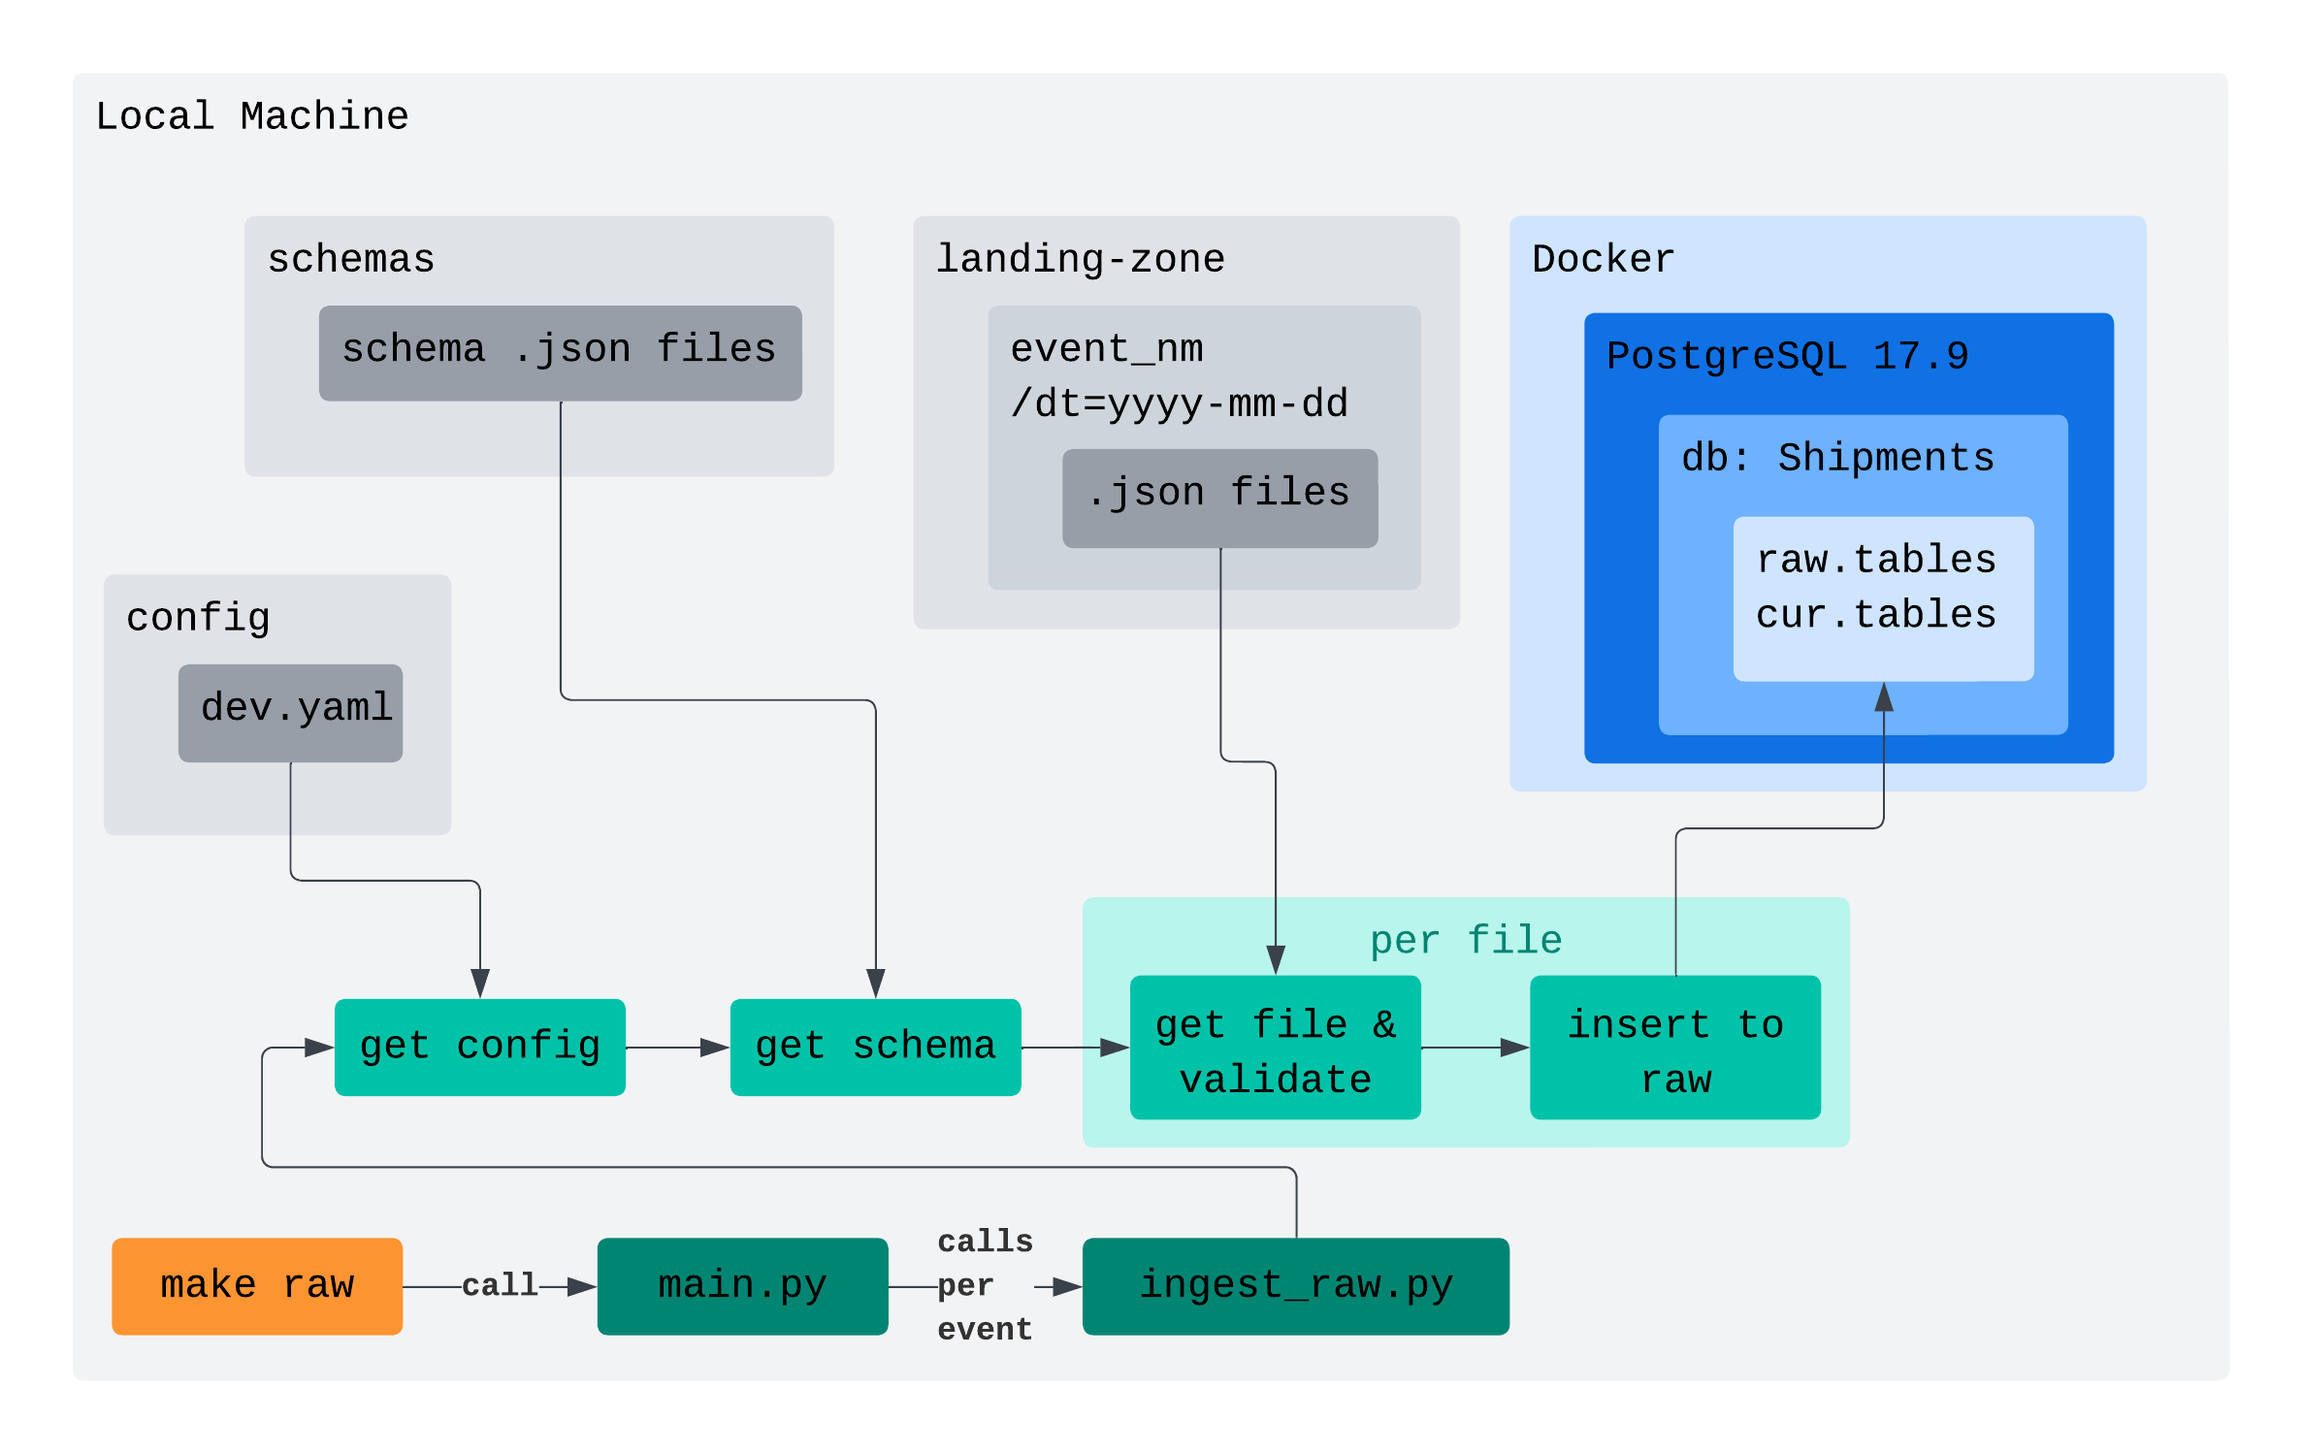
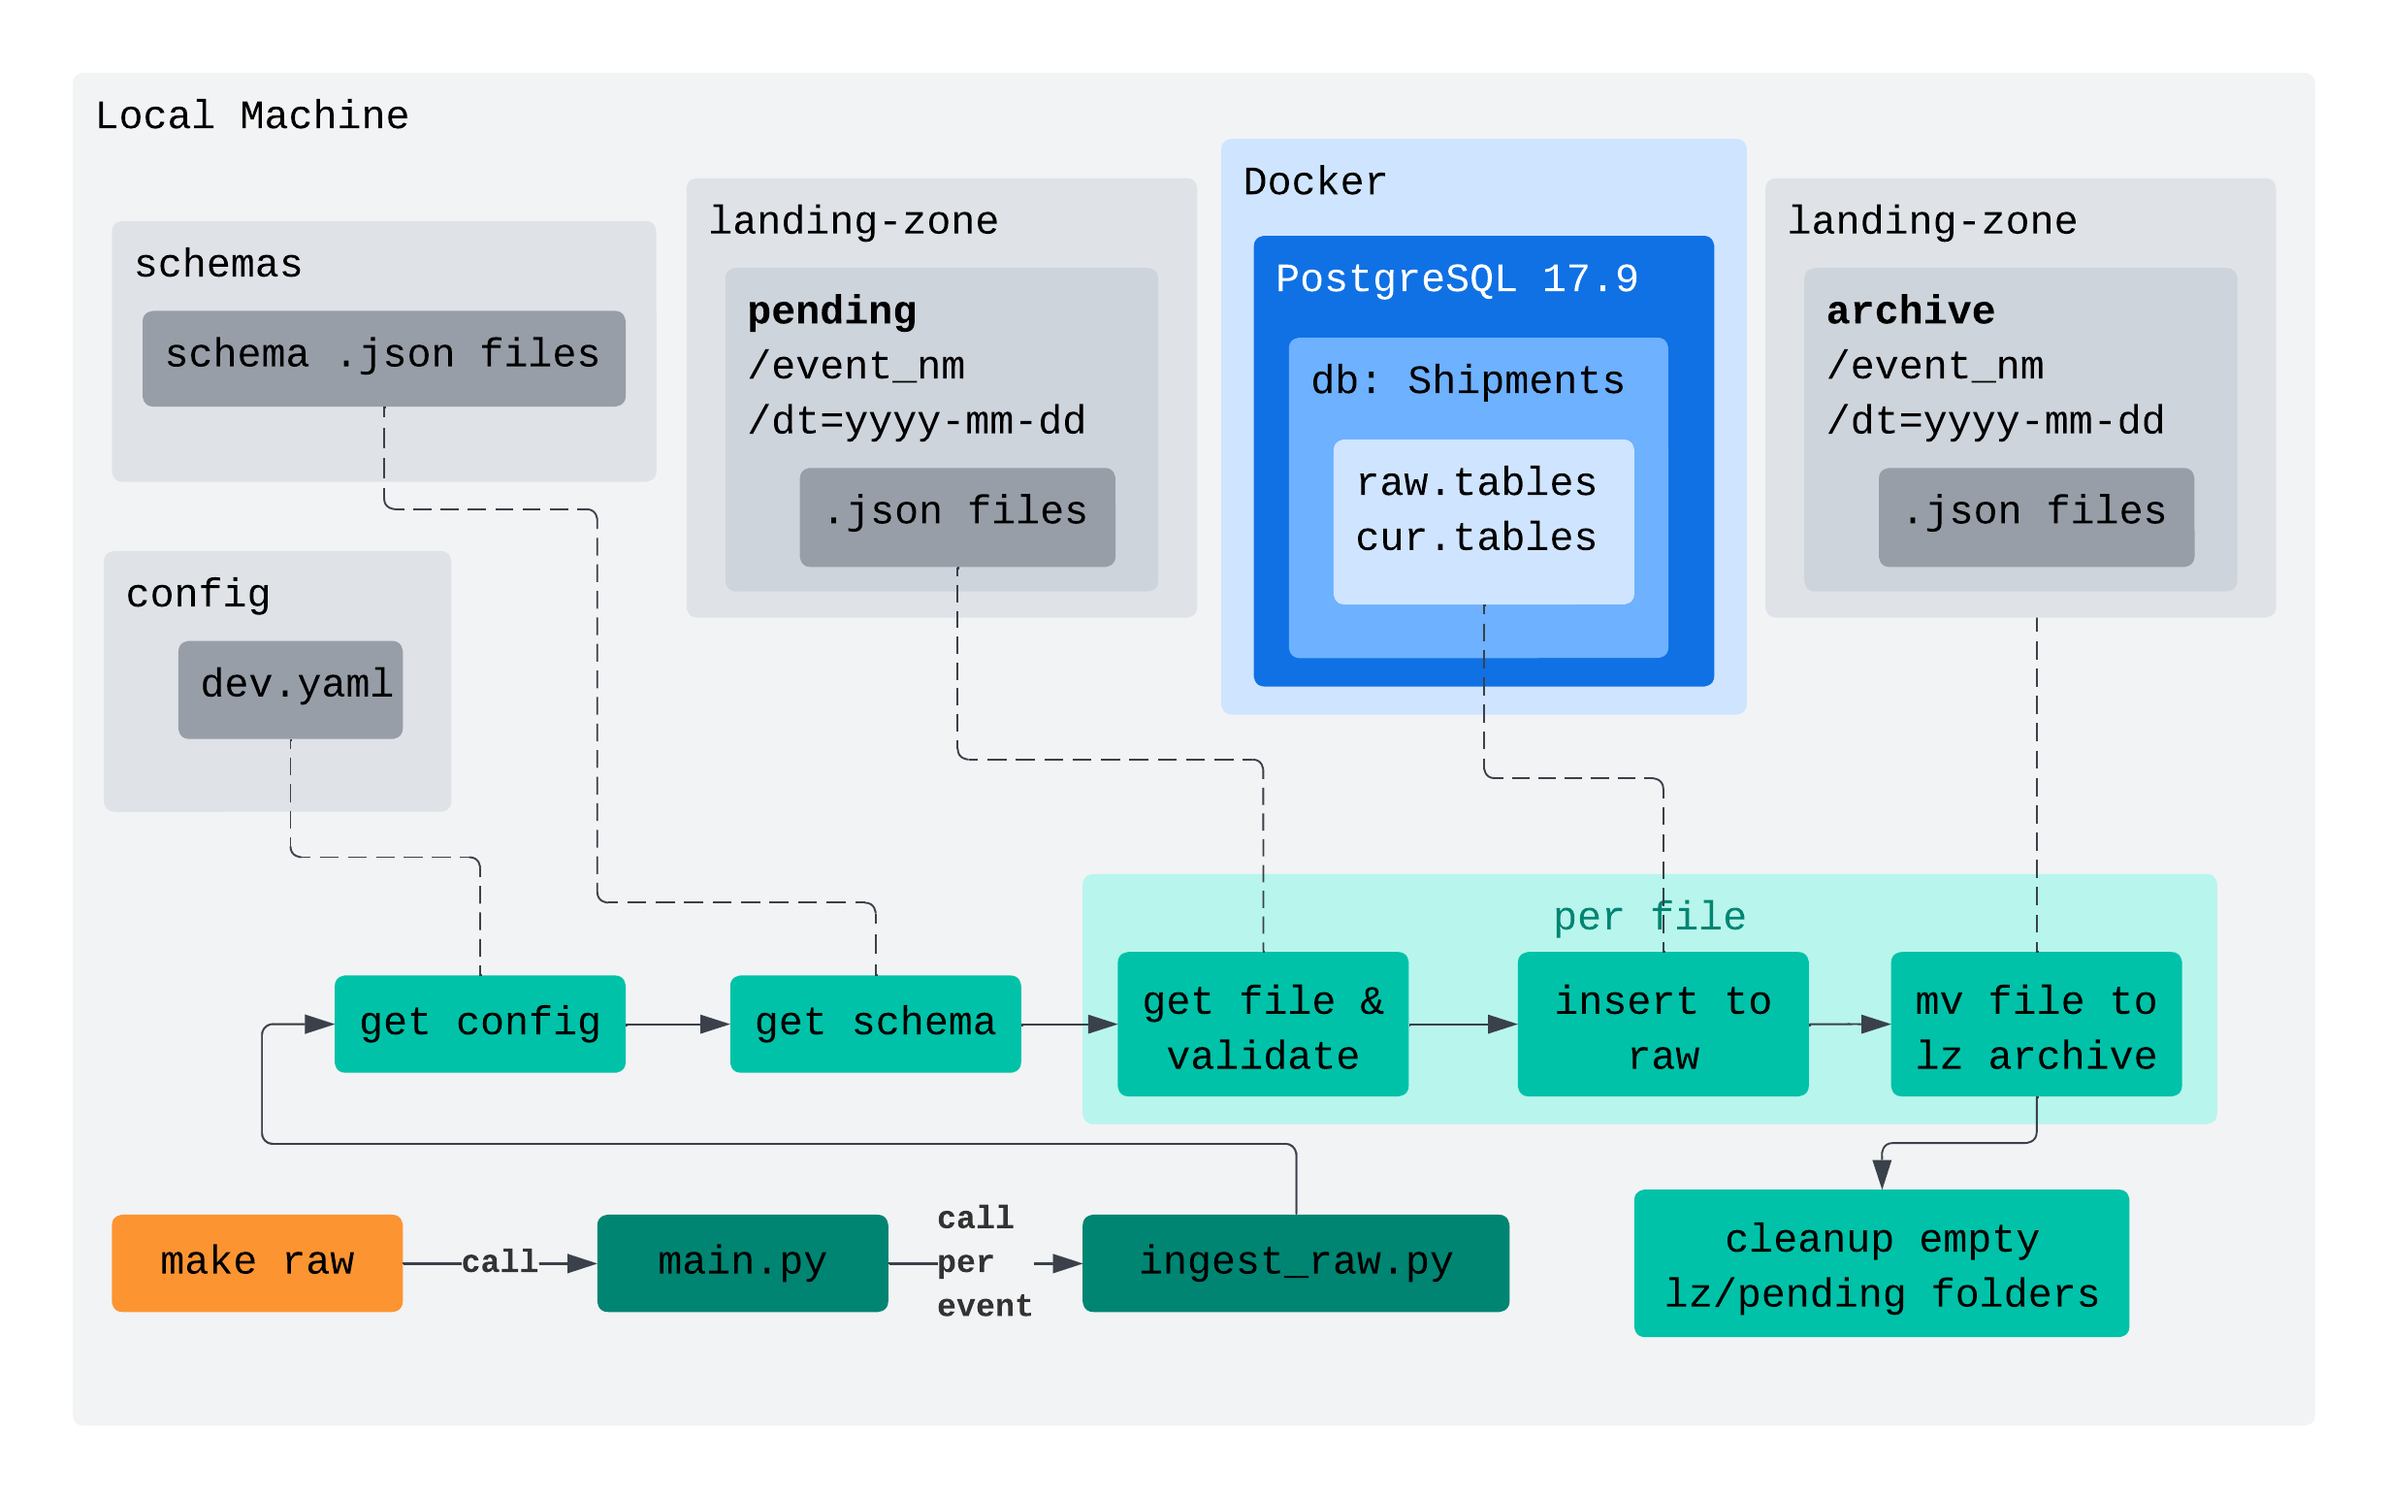
update docs

diff --git a/BLOG.md b/BLOG.md
@@ -29,6 +29,10 @@ In the readme I think I'll give updates on each phase of the project, but for no
 - `Checkpoints`
 - `Airflow`
 
+### Expanded list of things I thought about and don't want to forget
+
+- `Reprocessing`
+
 ## How am I developing it?
 
 I'm mostly writing things by hand. I'm doing a lot of googling, watching videos, and reading documentation. I'm also using a lot of AI, but **I am not vibe coding this pipeline**.
@@ -43,7 +47,7 @@ How I am using AI:
 
 ---
 
-## Day 1
+## Day 1 [Phase 1]
 
 ### Did
 
@@ -63,7 +67,7 @@ How I am using AI:
 
 ---
 
-## Day 2 (and 3)
+## Day 2 (and 3) [Phase 1]
 _My router decided to pick a fight with me at the end of day 2 so I didn't get to do my write up._
 
 ### Did
@@ -73,7 +77,7 @@ _My router decided to pick a fight with me at the end of day 2 so I didn't get t
 - A lot of work on phase 1.
 - Cleaned up the blog and readme.
 
-### What have I learned today?
+### Learned
 
 | Topic | Learning |
 | --- | --- |
@@ -89,3 +93,21 @@ _My router decided to pick a fight with me at the end of day 2 so I didn't get t
 | SQLAlchemy | seems quite simple to work with. I still haven't mastered the concepts of connection pooling and managing sessions. For now I got querying working with the engine as a singleton. Later I'll look more into optimizing the pattern.|
 | sequencing permissions for tables | I have a bit of a funky order for this because I'm creating this on DB initialization. Normally an engineering team wouldn't be creating tables on DB initialization with root users, they'd make their own tables. As I am, I need to change the ownership to the engineering role to pretend that they made it. This allows user `shrw` to insert / delete / whatever, once the database is running. What this means for me is that my pattern in this project isn't exactly 'real', but that's ok I suppose.|
 | Exception handling | I spent a lot of time looking at the different ways to handle (or not handle) exceptions. It's still not clear to me what the best approach is. I feel I will need balance between try catching everything in existence vs nothing. I think it will also pair with how I approach logging. Definitely something REQUIRED for when I get to a more mature 'this is a pipeline' phase, but for now I'll see how much I do. | 
+
+
+## Day 3.5 [Phase 1]
+I kept working at night; I noticed the easiest time to work when you have a baby is when it is sleeping.
+
+### Did
+- Added a LZ pending and LZ archive setup
+- Automatically cleaning LZ pending after a file is loaded successfully
+- Cleaning up empty LZ pending folders after raw ingest
+- Added more make commands to reset the environment: `make resetall` `make resetdb` `make resetlz`
+- Renamed compose make commands to `make composeup` and `make composedown` as that just sounds better to me than dbup/dbdown.
+- Added better logging.
+
+### Learned
+
+| Topic | Learning |
+| --- | --- |
+|Avoiding multiple raw loads|I considered different approaches: 1) moving files after processing. 2) maintaining a log of files which were processed. 3) relying on unique inserts to avoid double loading. 4). trying to replicate databricks checkpoint logic. 5) tracking processed partitions. </br> </br> what I landed on was option 1) as it seems quite simple, and I think for reprocessing we can just add logic to load from the archive folder rather than the pending folder (to avoid having to move files back).|

diff --git a/README.md b/README.md
@@ -30,26 +30,32 @@ project-structure/
 ### Running this bad boy
 
 - `make setup` - install dependencies
-- `make dbup` - spin up that postgres db!!!
+- `make composeup` - spin up that postgres db!!!
+- `make composedown` - spin down that postgres db!!!
 - `make raw` - ingest files to the raw tables
-- `make dbdown` - compose down
-- `make dbreset` - compose down & remove the volume (so it starts fresh)
+- `make resetall` - compose down, remove volume, move files back to LZ/pending
+- `make resetdb` - compose down, remove volume
+- `make resetlz` - move files back to LZ/pending
 
 ---
 
 ## Version Updates
 
-### Phase 1 - LZ -> Raw - 2026-04-11
+### Phase 1 - LZ -> Raw - 2026-04-12
 
-I've got a first version raw working! (_ok it can use some improvement, but we can load the raw tables!)_
+I've got a first version raw working!
 
 What I did:
+- design event schemas
+- create dummy events
+- spin up postgres in docker
+- create raw ddls
+- set up postgres schemas/table
+- set up postgres users & permissions for admin, rw, r, consumer
+- setup raw ingestion flow pictured below (using rw role)
+
 <h1 align="center">
   <img src="resources/phase-1.png" alt="Shipment Events Phase 1" width="950" height="600">
 </h1>
 
 (This diagram doesn't follow any standard, it's just a combination of stuff to show generally how this phase works)
-
-Some to-dos before next phase (LZ -> Quarantine):
-- Some way of checkpointing LZ files so I don't load them multiple times (I don't know yet what pattern makes the most sense and fits best with future setup, will investigate.)
-- Add some more comprehensive logging and exception handling.
